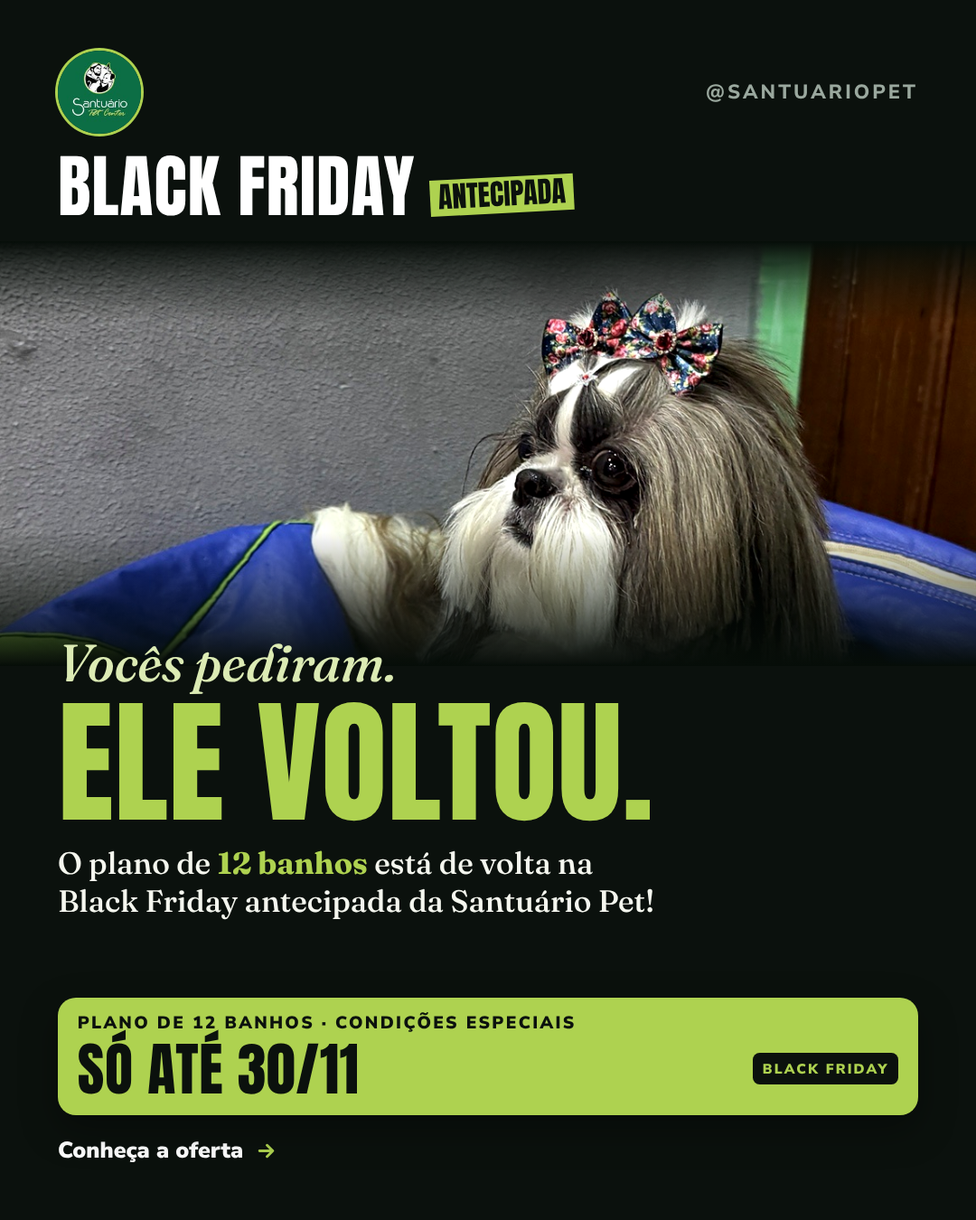
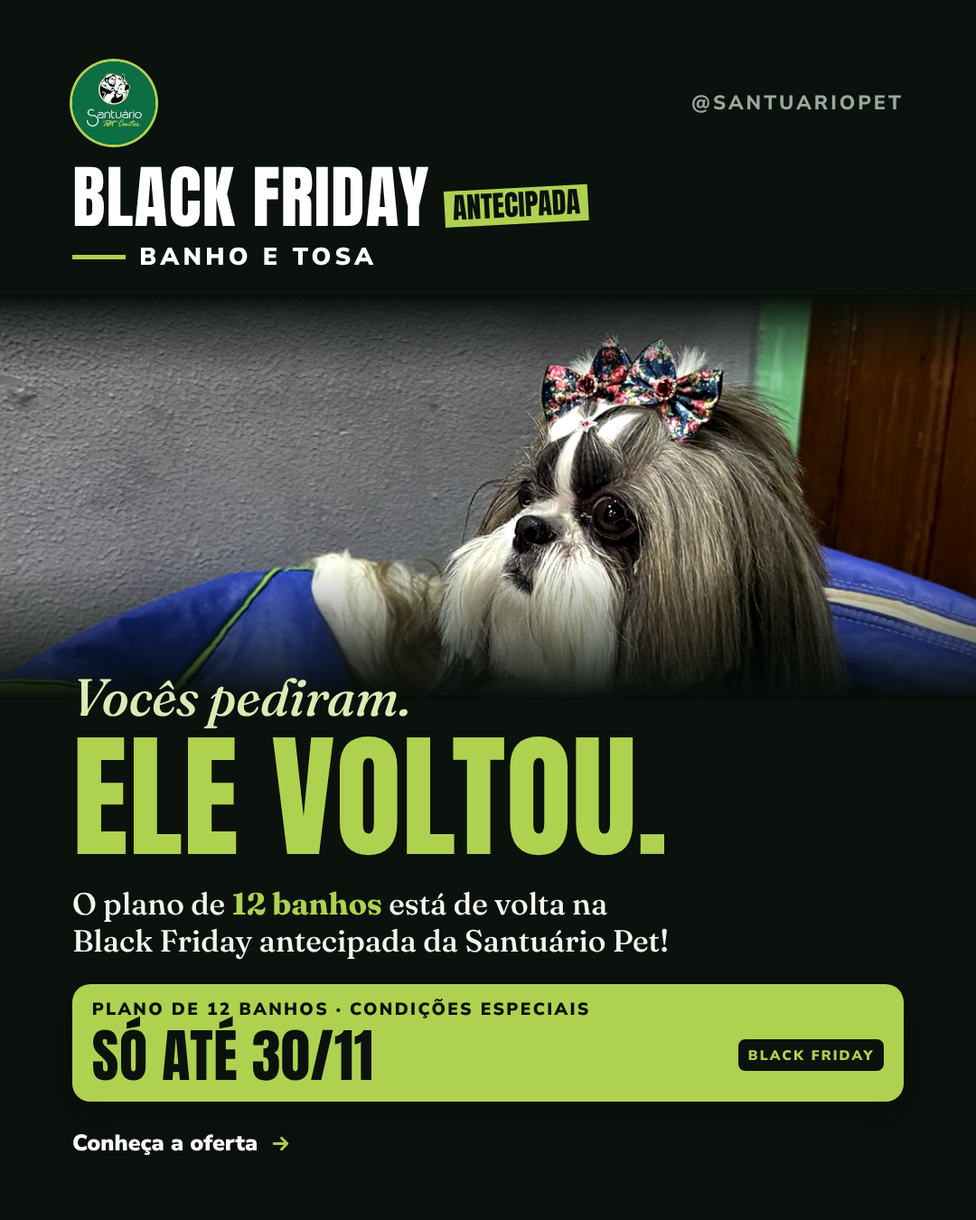
Santuário Pet: rótulo do serviço, espaçamentos e nova foto do hotel
Claude-Session: https://claude.ai/code/session_01Gs9A9MNex2dmEc6dmLnRAu

diff --git a/santuario-pet/gerar_black_antecipada.py b/santuario-pet/gerar_black_antecipada.py
@@ -80,6 +80,8 @@ body{width:1080px;overflow:hidden;font-family:'Nunito Sans',sans-serif;-webkit-f
 .oferta .b{font-family:'Anton';text-transform:uppercase;line-height:1;letter-spacing:.01em}
 .oferta .t{background:var(--k);color:var(--lime);font-weight:900;font-size:.24em;letter-spacing:.14em;text-transform:uppercase;
   padding:.45em .7em;border-radius:.5em;white-space:nowrap}
+.serv{display:flex;align-items:center;gap:.55em;font-weight:900;text-transform:uppercase;letter-spacing:.16em;color:#fff;line-height:1}
+.serv i{display:block;width:2.2em;height:.18em;background:var(--lime)}
 .rodl{position:relative;z-index:6;font-weight:800;letter-spacing:3px;text-transform:uppercase;color:var(--lime)}
 .strike{display:inline-block;color:rgba(245,247,239,.42);text-decoration:line-through;text-decoration-color:var(--lime);text-decoration-thickness:.055em}
 """
@@ -96,9 +98,18 @@ def topo(ls):
             f'<span class="handle">@santuariopet</span></div>')
 
 
+SERV = {"creche": "Creche Pet", "banho": "Banho e Tosa", "hotel": "Hotel Pet"}
+
+
+def servico(size, mt):
+    nome = SERV[CUR["nome"].split("-")[1]]
+    return (f'<div class="serv" style="font-size:{size}px;margin-top:{mt}px"><i></i>{nome}</div>')
+
+
 def bf(size, mt=0):
     return (f'<div class="bf" style="margin-top:{mt}px"><div class="l" style="font-size:{size}px">Black Friday</div>'
-            f'<div class="ant" style="font-size:{round(size * .42)}px">Antecipada</div></div>')
+            f'<div class="ant" style="font-size:{round(size * .42)}px">Antecipada</div></div>'
+            + servico(max(24, round(size * .36)), round(size * .26)))
 
 
 def tape(*a, **k):
@@ -119,7 +130,7 @@ OFERTAS = {
     "06-banho-nao-e-1-nao-sao-6": ("Plano de 12 banhos · condições especiais", "Só até 30/11", "Black Friday"),
     "07-hotel-fim-de-ano-destino": ("Hospedagem com valor de baixa temporada", "Reserve até 30/11", "Vagas limitadas"),
     "08-hotel-baixa-temporada": ("Hospedagem de fim de ano", "Só até 30/11", "Vagas limitadas"),
-    "09-hotel-viagem-pode-esperar": ("Valor de baixa temporada", "Reserve até 30/11", "Vagas limitadas"),
+    "09-hotel-viagem-pode-esperar": ("Valor de baixa temporada", "Até 30/11", "Vagas limitadas"),
 }
 
 
@@ -130,13 +141,13 @@ def oferta(size, mt):
 
 
 def cta(txt, size, mt=0):
-    big = 92 if size >= 30 else 64
+    big = 80 if size >= 30 else 64
     return (oferta(big, max(mt, 26)) +
-            f'<div class="cta" style="font-size:{size}px;margin-top:22px">{txt} {SETA}</div>')
+            f'<div class="cta" style="font-size:{size}px;margin-top:29px">{txt} {SETA}</div>')
 
 
-SP = "150px 72px 250px"
-FP = "56px 64px 60px"
+SP = "170px 92px 270px"
+FP = "68px 80px 68px"
 
 
 def faixa(*a, **k):
@@ -150,56 +161,56 @@ def _faixa_old(txt, bottom, left=64, width=520):
 # ======================================================== CRECHE
 def creche1(f):
     if f == "story":
-        return page(1920, f"""{topo(104)}{bf(120, 46)}
-  <div class="row" style="margin-top:34px;gap:30px;align-items:center">
-    <div class="imp lime" style="font-size:430px;line-height:.8;letter-spacing:-6px">60</div>
-    <div><div class="imp" style="font-size:118px">Diárias</div>
-      <div class="ser it" style="font-size:44px;line-height:1.12;margin-top:16px;color:var(--gl)">Um desconto que vai te surpreender.</div></div>
+        return page(1920, f"""{topo(90)}{bf(90, 40)}
+  <div class="row" style="margin-top:44px;gap:30px;align-items:center">
+    <div class="imp lime" style="font-size:330px;line-height:.8;letter-spacing:-5px">60</div>
+    <div><div class="imp" style="font-size:100px">Diárias</div>
+      <div class="ser it" style="font-size:44px;line-height:1.12;margin-top:21px;color:var(--gl)">Um desconto que vai te surpreender.</div></div>
   </div>
-  {ph('creche-playground', '55% 30%', 'flex:1;margin:40px -72px 0;min-height:300px', '<div class="fade-t" style="height:160px"></div><div class="fade-b" style="height:120px"></div>')}
+  {ph('creche-playground', '55% 30%', 'flex:1;margin:40px -92px 0;min-height:470px', '<div class="fade-t" style="height:80px"></div><div class="fade-b" style="height:70px"></div>')}
   {tape('Vagas limitadas • Somente até 30/11', 40, -60)}
-  <div class="sup" style="font-size:29px;margin-top:40px">A Black Friday antecipada chegou à creche Santuário, com uma condição especial <b>sem diferenciação de preço por porte</b>.</div>
+  <div class="sup" style="font-size:29px;margin-top:52px">A Black Friday antecipada chegou à creche Santuário, com uma condição especial <b>sem diferenciação de preço por porte</b>.</div>
   {cta('Consulte a oferta pelo WhatsApp', 30, 22)}""", SP)
     return page(1350, f"""<div class="row" style="flex:1;gap:44px">
     <div style="width:520px;display:flex;flex-direction:column">
       {topo(92)}{bf(86, 34)}
-      <div class="imp lime" style="font-size:340px;line-height:.8;letter-spacing:-5px;margin-top:30px">60</div>
+      <div class="imp lime" style="font-size:340px;line-height:.8;letter-spacing:-5px;margin-top:39px">60</div>
       <div class="imp" style="font-size:104px;margin-top:6px">Diárias</div>
-      <div class="ser it" style="font-size:40px;line-height:1.12;margin-top:16px;color:var(--gl)">Um desconto que vai te surpreender.</div>
-      <div class="sup" style="font-size:24px;margin-top:22px">A Black Friday antecipada chegou à creche Santuário, com uma condição especial <b>sem diferenciação de preço por porte</b>.</div>
+      <div class="ser it" style="font-size:40px;line-height:1.12;margin-top:21px;color:var(--gl)">Um desconto que vai te surpreender.</div>
+      <div class="sup" style="font-size:24px;margin-top:29px">A Black Friday antecipada chegou à creche Santuário, com uma condição especial <b>sem diferenciação de preço por porte</b>.</div>
       <div style="flex:1"></div>{cta('Consulte a oferta pelo WhatsApp', 25)}
     </div>
-    {ph('creche-playground', '50% 40%', 'flex:1;margin:-56px -64px -60px 0', '<div class="fade-l" style="width:120px"></div>')}
+    {ph('creche-playground', '50% 40%', 'flex:1;margin:-68px -80px -68px 0', '<div class="fade-l" style="width:120px"></div>')}
   </div>{faixa('Vagas limitadas • Somente até 30/11', 150)}""", FP)
 
 
 def creche2(f):
     if f == "story":
-        return page(1920, f"""{topo(104)}
-  <div class="imp" style="font-size:112px;margin-top:50px;line-height:.95">A <span class="lime">Black Friday</span><br>da creche não<br>veio para</div>
+        return page(1920, f"""{topo(90)}{servico(32, 46)}
+  <div class="imp" style="font-size:112px;margin-top:65px;line-height:.95">A <span class="lime">Black Friday</span><br>da creche não<br>veio para</div>
   <div class="ser it lime" style="font-size:168px;line-height:.95;font-weight:700;margin-top:4px;letter-spacing:-3px">brincar.</div>
-  <div class="ser" style="font-size:42px;font-weight:700;margin-top:26px">60 diárias com uma condição especial.</div>
-  {ph('creche-brincando', '50% 52%', 'flex:1;margin:34px -72px 0;min-height:300px', '<div class="fade-t" style="height:140px"></div><div class="fade-b" style="height:120px"></div>')}
+  <div class="ser" style="font-size:42px;font-weight:700;margin-top:34px">60 diárias com uma condição especial.</div>
+  {ph('creche-brincando', '50% 52%', 'flex:1;margin:34px -92px 0;min-height:470px', '<div class="fade-t" style="height:80px"></div><div class="fade-b" style="height:70px"></div>')}
   {tape('Oferta até 30/11 • Vagas limitadas', 40, -50)}
-  <div class="sup" style="font-size:29px;margin-top:40px">Mais oportunidades de recreação, atividades e diversão na rotina do teu pet.</div>
+  <div class="sup" style="font-size:29px;margin-top:52px">Mais oportunidades de recreação, atividades e diversão na rotina do teu pet.</div>
   {cta('Descubra a condição especial', 30, 22)}""", SP)
     return page(1350, f"""{ph('creche-brincando', '46% 50%', 'position:absolute;top:0;bottom:0;right:0;left:540px', '<div class="fade-l" style="width:120px"></div>')}
   <div style="position:relative;z-index:3;width:450px;display:flex;flex-direction:column;height:100%">
-    <div style="--ls:92px"><img class="logo" src="{LOGO}" alt="Santuário Pet Center"></div>
-    <div class="imp" style="font-size:88px;margin-top:44px;line-height:.98">A <span class="lime">Black<br>Friday</span> da<br>creche não<br>veio para</div>
+    <div style="--ls:92px"><img class="logo" src="{LOGO}" alt="Santuário Pet Center"></div>{servico(24, 34)}
+    <div class="imp" style="font-size:88px;margin-top:57px;line-height:.98">A <span class="lime">Black<br>Friday</span> da<br>creche não<br>veio para</div>
     <div class="ser it lime" style="font-size:124px;line-height:.95;font-weight:700;margin-top:4px;letter-spacing:-2px">brincar.</div>
-    <div class="ser" style="font-size:36px;font-weight:700;margin-top:28px;width:420px">60 diárias com uma condição especial.</div>
-    <div class="sup" style="font-size:24px;margin-top:14px;width:420px">Mais oportunidades de recreação, atividades e diversão na rotina do teu pet.</div>
+    <div class="ser" style="font-size:36px;font-weight:700;margin-top:36px;width:420px">60 diárias com uma condição especial.</div>
+    <div class="sup" style="font-size:24px;margin-top:18px;width:420px">Mais oportunidades de recreação, atividades e diversão na rotina do teu pet.</div>
     <div style="flex:1"></div>{cta('Descubra a condição especial', 25)}
   </div>{faixa('Oferta até 30/11 • Vagas limitadas', 150)}""", FP)
 
 
 def creche3(f):
     if f == "story":
-        return page(1920, f"""{topo(104)}{bf(110, 46)}
-  <div class="ser it" style="font-size:68px;margin-top:36px;color:var(--gl)">Porte diferente.</div>
-  <div class="imp" style="font-size:140px;margin-top:8px">Mesmo preço<br><span class="lime">especial.</span></div>
-  <div class="row" style="flex:1;gap:36px;margin-top:44px;min-height:300px">
+        return page(1920, f"""{topo(90)}{bf(86, 40)}
+  <div class="ser it" style="font-size:68px;margin-top:47px;color:var(--gl)">Porte diferente.</div>
+  <div class="imp" style="font-size:140px;margin-top:10px">Mesmo preço<br><span class="lime">especial.</span></div>
+  <div class="row" style="flex:1;gap:36px;margin-top:57px;min-height:470px">
     {ph('creche-grupo', '50% 55%', 'width:540px;border-radius:270px 270px 24px 24px')}
     <div style="flex:1;display:flex;flex-direction:column;justify-content:flex-end">
       <div class="sup" style="font-size:29px">Aproveita a Black Friday antecipada e conhece a condição do plano de <b>60 diárias</b> da creche Santuário.</div>
@@ -208,15 +219,15 @@ def creche3(f):
   {cta('Fala com a equipe', 30, 36)}
   {tape('Contratações até 30/11 • Vagas limitadas', 38, 46)}""", SP)
     return page(1350, f"""{topo(92)}
-  <div class="row" style="flex:1;gap:40px;margin-top:34px">
+  <div class="row" style="flex:1;gap:40px;margin-top:44px">
     <div style="flex:1;display:flex;flex-direction:column">
       {bf(78)}
-      <div class="ser it" style="font-size:62px;margin-top:36px;color:var(--gl)">Porte diferente.</div>
-      <div class="imp" style="font-size:132px;margin-top:8px">Mesmo<br>preço<br><span class="lime">especial.</span></div>
+      <div class="ser it" style="font-size:62px;margin-top:47px;color:var(--gl)">Porte diferente.</div>
+      <div class="imp" style="font-size:132px;margin-top:10px">Mesmo<br>preço<br><span class="lime">especial.</span></div>
     </div>
     {ph('creche-grupo', '50% 55%', 'width:400px;border-radius:200px 200px 22px 22px')}
   </div>
-  <div class="sup" style="font-size:26px;margin-top:36px">Aproveita a Black Friday antecipada e conhece a condição do plano de <b>60 diárias</b> da creche Santuário.</div>
+  <div class="sup" style="font-size:26px;margin-top:47px">Aproveita a Black Friday antecipada e conhece a condição do plano de <b>60 diárias</b> da creche Santuário.</div>
   {tape('Contratações até 30/11 • Vagas limitadas', 28, 30, 26)}
   {cta('Fala com a equipe', 25)}""", FP)
 
@@ -224,19 +235,19 @@ def creche3(f):
 # ======================================================== BANHO
 def banho1(f):
     if f == "story":
-        return page(1920, f"""{topo(104)}{bf(110, 46)}
-  {ph('banho-shihtzu', '50% 36%', 'height:620px;margin:40px -72px 0', '<div class="fade-t" style="height:120px"></div><div class="fade-b" style="height:200px"></div>')}
+        return page(1920, f"""{topo(90)}{bf(86, 40)}
+  {ph('banho-shihtzu', '50% 36%', 'height:620px;margin:40px -92px 0', '<div class="fade-t" style="height:120px"></div><div class="fade-b" style="height:200px"></div>')}
   <div class="ser it" style="font-size:84px;margin-top:-40px;position:relative;z-index:3;color:var(--gl)">Vocês pediram.</div>
   <div class="imp lime" style="font-size:200px;margin-top:6px">Ele voltou.</div>
-  <div class="ser" style="font-size:42px;font-weight:500;line-height:1.2;margin-top:34px">O plano de <b style="font-weight:700;color:var(--lime)">12 banhos</b> está de volta na Black Friday antecipada da Santuário Pet!</div>
+  <div class="ser" style="font-size:42px;font-weight:500;line-height:1.2;margin-top:44px">O plano de <b style="font-weight:700;color:var(--lime)">12 banhos</b> está de volta na Black Friday antecipada da Santuário Pet!</div>
   <div style="flex:1"></div>
   {tape('Condições especiais • Somente até 30/11', 38, 0, 40)}
   {cta('Conheça a oferta', 30)}""", SP)
     return page(1350, f"""{topo(92)}{bf(76, 26)}
-  {ph('banho-shihtzu', '50% 36%', 'height:470px;margin:28px -64px 0', '<div class="fade-t" style="height:90px"></div><div class="fade-b" style="height:150px"></div>')}
+  {ph('banho-shihtzu', '50% 36%', 'height:470px;margin:28px -80px 0', '<div class="fade-t" style="height:90px"></div><div class="fade-b" style="height:150px"></div>')}
   <div class="ser it" style="font-size:58px;color:var(--gl);margin-top:-40px;position:relative;z-index:3">Vocês pediram.</div>
   <div class="imp lime" style="font-size:150px;margin-top:6px">Ele voltou.</div>
-  <div class="ser" style="font-size:34px;font-weight:500;line-height:1.22;margin-top:22px">O plano de <b style="font-weight:700;color:var(--lime)">12 banhos</b> está de volta na Black Friday antecipada da Santuário Pet!</div>
+  <div class="ser" style="font-size:34px;font-weight:500;line-height:1.22;margin-top:29px">O plano de <b style="font-weight:700;color:var(--lime)">12 banhos</b> está de volta na Black Friday antecipada da Santuário Pet!</div>
   <div style="flex:1"></div>
   {tape('Condições especiais • Somente até 30/11', 28, 0, 30)}
   {cta('Conheça a oferta', 25)}""", FP)
@@ -244,53 +255,53 @@ def banho1(f):
 
 def banho2(f):
     if f == "story":
-        return page(1920, f"""{topo(104)}{bf(110, 46)}
-  <div class="row" style="gap:28px;margin-top:40px;height:620px">
+        return page(1920, f"""{topo(90)}{bf(86, 40)}
+  <div class="row" style="gap:28px;margin-top:52px;height:620px">
     <div class="imp lime" style="font-size:640px;line-height:.78;letter-spacing:-14px">12</div>
     {ph('banho-toalha', '50% 30%', 'flex:1;border-radius:24px')}
   </div>
-  <div class="imp" style="font-size:190px;margin-top:20px">Banhos</div>
-  <div class="ser it" style="font-size:58px;color:var(--gl);margin-top:14px">Uma condição imperdível.</div>
-  <div class="sup" style="font-size:29px;margin-top:20px">Planeja os banhos do teu pet com uma condição especial de Black Friday.</div>
+  <div class="imp" style="font-size:190px;margin-top:26px">Banhos</div>
+  <div class="ser it" style="font-size:58px;color:var(--gl);margin-top:18px">Uma condição imperdível.</div>
+  <div class="sup" style="font-size:29px;margin-top:26px">Planeja os banhos do teu pet com uma condição especial de Black Friday.</div>
   <div style="flex:1"></div>
   {tape('Black Friday antecipada • Até 30/11', 38, 0, 40)}
   {cta('Consulte os valores', 30)}""", SP)
     return page(1350, f"""<div class="row" style="flex:1;gap:40px">
     <div style="width:560px;display:flex;flex-direction:column">
       {topo(92)}{bf(80, 30)}
-      <div class="imp lime" style="font-size:470px;line-height:.78;letter-spacing:-10px;margin-top:40px">12</div>
-      <div class="imp" style="font-size:150px;margin-top:10px">Banhos</div>
-      <div class="ser it" style="font-size:46px;color:var(--gl);margin-top:12px">Uma condição imperdível.</div>
-      <div class="sup" style="font-size:24px;margin-top:14px">Planeja os banhos do teu pet com uma condição especial de Black Friday.</div>
+      <div class="imp lime" style="font-size:470px;line-height:.78;letter-spacing:-10px;margin-top:52px">12</div>
+      <div class="imp" style="font-size:150px;margin-top:13px">Banhos</div>
+      <div class="ser it" style="font-size:46px;color:var(--gl);margin-top:16px">Uma condição imperdível.</div>
+      <div class="sup" style="font-size:24px;margin-top:18px">Planeja os banhos do teu pet com uma condição especial de Black Friday.</div>
       <div style="flex:1"></div>{cta('Consulte os valores', 25)}
     </div>
-    {ph('banho-toalha', '50% 40%', 'flex:1;margin:-56px -64px -60px 0', '<div class="fade-l" style="width:100px"></div>')}
+    {ph('banho-toalha', '50% 40%', 'flex:1;margin:-68px -80px -68px 0', '<div class="fade-l" style="width:100px"></div>')}
   </div>{faixa('Black Friday antecipada • Até 30/11', 150)}""", FP)
 
 
 def banho3(f):
     if f == "story":
-        return page(1920, f"""{topo(104)}{bf(110, 46)}
-  <div class="imp" style="font-size:88px;margin-top:36px;line-height:1.08"><span class="strike">Não são 4.</span><br><span class="strike">Não são 8.</span></div>
-  <div class="row" style="align-items:flex-end;gap:26px;margin-top:22px">
-    <div class="imp" style="font-size:110px;padding-bottom:10px">São</div>
-    <div class="imp lime" style="font-size:300px;line-height:.78;letter-spacing:-10px">12</div>
+        return page(1920, f"""{topo(90)}{bf(86, 40)}
+  <div class="imp" style="font-size:72px;margin-top:40px;line-height:1.08"><span class="strike">Não são 4.</span><br><span class="strike">Não são 8.</span></div>
+  <div class="row" style="align-items:flex-end;gap:26px;margin-top:29px">
+    <div class="imp" style="font-size:92px;padding-bottom:8px">São</div>
+    <div class="imp lime" style="font-size:250px;line-height:.78;letter-spacing:-8px">12</div>
   </div>
-  <div class="imp" style="font-size:110px;margin-top:12px">banhos!</div>
-  {ph('banho-golden', '50% 30%', 'flex:1;margin:26px -72px 0;min-height:200px', '<div class="fade-t" style="height:140px"></div><div class="fade-b" style="height:110px"></div>')}
+  <div class="imp" style="font-size:92px;margin-top:14px">banhos!</div>
+  {ph('banho-golden', '50% 30%', 'flex:1;margin:26px -92px 0;min-height:470px', '<div class="fade-t" style="height:80px"></div><div class="fade-b" style="height:70px"></div>')}
   {tape('Somente até 30/11', 40, -50)}
-  <div class="sup" style="font-size:29px;margin-top:40px">O plano tão pedido voltou com condições especiais na Black Friday Santuário.</div>
+  <div class="sup" style="font-size:29px;margin-top:52px">O plano tão pedido voltou com condições especiais na Black Friday Santuário.</div>
   {cta('Chama no WhatsApp', 30, 22)}""", SP)
     return page(1350, f"""{ph('banho-golden', '50% 45%', 'position:absolute;right:0;top:0;width:420px;height:1350px', '<div class="fade-l" style="width:180px"></div>')}
   <div style="position:relative;z-index:3;width:680px;display:flex;flex-direction:column;height:100%">
     {topo(92)}{bf(80, 30)}
-    <div class="imp" style="font-size:118px;margin-top:40px;line-height:1"><span class="strike">Não são 4.</span><br><span class="strike">Não são 8.</span></div>
-    <div class="row" style="align-items:flex-end;gap:20px;margin-top:16px">
+    <div class="imp" style="font-size:118px;margin-top:52px;line-height:1"><span class="strike">Não são 4.</span><br><span class="strike">Não são 8.</span></div>
+    <div class="row" style="align-items:flex-end;gap:20px;margin-top:21px">
       <div class="imp" style="font-size:112px;padding-bottom:10px">São</div>
       <div class="imp lime" style="font-size:330px;line-height:.78;letter-spacing:-8px">12</div>
     </div>
-    <div class="imp" style="font-size:112px;margin-top:10px">banhos!</div>
-    <div class="sup" style="font-size:24px;margin-top:18px;width:560px">O plano tão pedido voltou com condições especiais na Black Friday Santuário.</div>
+    <div class="imp" style="font-size:112px;margin-top:13px">banhos!</div>
+    <div class="sup" style="font-size:24px;margin-top:23px;width:560px">O plano tão pedido voltou com condições especiais na Black Friday Santuário.</div>
     <div style="flex:1"></div>{cta('Chama no WhatsApp', 25)}
   </div>{faixa('Somente até 30/11', 150)}""", FP)
 
@@ -298,71 +309,67 @@ def banho3(f):
 # ======================================================== HOTEL
 def hotel1(f):
     if f == "story":
-        return page(1920, f"""{topo(104)}{bf(110, 46)}
-  <div class="ser" style="font-size:80px;font-weight:700;line-height:1.04;margin-top:44px;letter-spacing:-1px">Teu fim de ano<br>já tem destino?</div>
-  <div class="ser it lime" style="font-size:58px;font-weight:500;margin-top:16px">O dele também pode ter.</div>
-  {ph('hotel-descanso', '50% 62%', 'flex:1;margin:44px -72px 0;min-height:300px', '<div class="fade-t" style="height:150px"></div><div class="fade-b" style="height:120px"></div>')}
+        return page(1920, f"""{topo(90)}{bf(86, 40)}
+  <div class="ser" style="font-size:80px;font-weight:700;line-height:1.04;margin-top:57px;letter-spacing:-1px">Teu fim de ano<br>já tem destino?</div>
+  <div class="ser it lime" style="font-size:58px;font-weight:500;margin-top:21px">O dele também pode ter.</div>
+  {ph('hotel-colo', '50% 40%', 'flex:1;margin:44px -92px 0;min-height:470px', '<div class="fade-t" style="height:80px"></div><div class="fade-b" style="height:70px"></div>')}
   {tape('Reserve até 30/11 • Vagas limitadas', 40, -50)}
-  <div class="sup" style="font-size:29px;margin-top:40px">Garante a hospedagem do teu pet para o fim de ano com valor de <b>baixa temporada</b>.</div>
+  <div class="sup" style="font-size:29px;margin-top:52px">Garante a hospedagem do teu pet para o fim de ano com valor de <b>baixa temporada</b>.</div>
   {cta('Consulte a disponibilidade', 30, 22)}
-  <div class="end" style="font-size:21px;margin-top:12px">{HOTEL}</div>""", SP)
+  <div class="end" style="font-size:21px;margin-top:16px">{HOTEL}</div>""", SP)
     return page(1350, f"""<div class="row" style="flex:1;gap:44px">
-    {ph('hotel-descanso', '55% 62%', 'width:430px;margin:-56px 0 -60px -64px')}
+    {ph('hotel-colo', '42% 40%', 'width:430px;margin:-68px 0 -68px -80px')}
     <div style="flex:1;display:flex;flex-direction:column">
       {topo(92)}{bf(70, 30)}
-      <div class="ser" style="font-size:70px;font-weight:700;line-height:1.04;margin-top:44px;letter-spacing:-1px">Teu fim de ano já tem destino?</div>
-      <div class="ser it lime" style="font-size:52px;font-weight:500;margin-top:16px;line-height:1.1">O dele também pode ter.</div>
-      <div class="sup" style="font-size:24px;margin-top:26px">Garante a hospedagem do teu pet para o fim de ano com valor de <b>baixa temporada</b>.</div>
+      <div class="ser" style="font-size:70px;font-weight:700;line-height:1.04;margin-top:57px;letter-spacing:-1px">Teu fim de ano já tem destino?</div>
+      <div class="ser it lime" style="font-size:52px;font-weight:500;margin-top:21px;line-height:1.1">O dele também pode ter.</div>
+      <div class="sup" style="font-size:24px;margin-top:34px">Garante a hospedagem do teu pet para o fim de ano com valor de <b>baixa temporada</b>.</div>
       <div style="flex:1"></div>{cta('Consulte a disponibilidade', 25)}
-      <div class="end" style="font-size:18px;margin-top:10px">{HOTEL}</div>
+      <div class="end" style="font-size:18px;margin-top:13px">{HOTEL}</div>
     </div>
   </div>{faixa('Reserve até 30/11 • Vagas limitadas', 200, 474, 540)}""", FP)
 
 
 def hotel2(f):
     if f == "story":
-        return page(1920, f"""{ph('hotel-samoieda', '50% 45%', 'position:absolute;inset:0', '<div class="fade-t" style="height:820px;background:linear-gradient(var(--k) 45%,rgba(11,17,13,0))"></div><div class="fade-b" style="height:1120px;background:linear-gradient(rgba(11,17,13,0),rgba(11,17,13,.88) 34%,var(--k) 52%)"></div>')}
-  <div style="position:relative;z-index:3">{topo(104)}{bf(110, 46)}
-    <div class="imp" style="font-size:120px;margin-top:50px">Fim de ano com</div></div>
-  <div style="flex:1"></div>
-  <div style="position:relative;z-index:3">
-    <div class="ser it" style="font-size:60px;color:var(--gl)">valor de</div>
-    <div class="imp lime" style="font-size:176px;margin-top:6px">Baixa<br>temporada.</div>
-    <div class="sup" style="font-size:28px;margin-top:28px">A Black Friday antecipada da Santuário chegou ao hotel pet. Garante a hospedagem de fim de ano com uma condição especial.</div>
-    {tape('Somente até 30/11 • Vagas limitadas', 38, 30, 34)}
-    {cta('Antecipe a reserva', 30)}
-    <div class="end" style="font-size:21px;margin-top:12px">{HOTEL}</div>
-  </div>""", SP)
+        return page(1920, f"""{topo(90)}{bf(86, 40)}
+  <div class="imp" style="font-size:112px;margin-top:52px">Fim de ano com</div>
+  {ph('hotel-samoieda', '50% 42%', 'flex:1;margin:34px -92px 0;min-height:470px', '<div class="fade-t" style="height:80px"></div><div class="fade-b" style="height:120px"></div>')}
+  <div class="ser it" style="font-size:52px;color:var(--gl);margin-top:-30px;position:relative;z-index:3">valor de</div>
+  <div class="imp lime" style="font-size:128px;margin-top:6px">Baixa temporada.</div>
+  <div class="sup" style="font-size:28px;margin-top:22px">A Black Friday antecipada da Santuário chegou ao hotel pet. Garante a hospedagem de fim de ano com uma condição especial.</div>
+  {cta('Antecipe a reserva', 30)}
+  <div class="end" style="font-size:21px;margin-top:16px">{HOTEL}</div>""", SP)
     return page(1350, f"""{ph('hotel-samoieda', '50% 40%', 'position:absolute;top:0;bottom:0;right:0;left:470px', '<div class="fade-l" style="width:420px;background:linear-gradient(90deg,var(--k) 20%,rgba(10,11,10,0))"></div>')}
   <div style="position:relative;z-index:3;width:600px;display:flex;flex-direction:column;height:100%">
     {topo(92)}{bf(76, 30)}
-    <div class="imp" style="font-size:96px;margin-top:44px">Fim de ano com</div>
-    <div class="ser it" style="font-size:48px;color:var(--gl);margin-top:20px">valor de</div>
+    <div class="imp" style="font-size:96px;margin-top:57px">Fim de ano com</div>
+    <div class="ser it" style="font-size:48px;color:var(--gl);margin-top:26px">valor de</div>
     <div class="imp lime" style="font-size:118px;margin-top:4px">Baixa<br>temporada.</div>
-    <div class="sup" style="font-size:24px;margin-top:22px;width:500px">A Black Friday antecipada da Santuário chegou ao hotel pet. Garante a hospedagem de fim de ano com uma condição especial.</div>
+    <div class="sup" style="font-size:24px;margin-top:29px;width:500px">A Black Friday antecipada da Santuário chegou ao hotel pet. Garante a hospedagem de fim de ano com uma condição especial.</div>
     <div style="flex:1"></div>{cta('Antecipe a reserva', 25)}
-    <div class="end" style="font-size:18px;margin-top:10px">{HOTEL}</div>
+    <div class="end" style="font-size:18px;margin-top:13px">{HOTEL}</div>
   </div>{faixa('Somente até 30/11 • Vagas limitadas', 200)}""", FP)
 
 
 def hotel3(f):
     if f == "story":
-        return page(1920, f"""{topo(104)}{bf(110, 46)}
-  <div class="imp" style="font-size:116px;margin-top:40px">Tua viagem<br>pode esperar.</div>
-  {ph('hotel-pastor', '50% 32%', 'flex:1;margin-top:40px;border-radius:26px;min-height:300px')}
+        return page(1920, f"""{topo(90)}{bf(86, 40)}
+  <div class="imp" style="font-size:116px;margin-top:52px">Tua viagem<br>pode esperar.</div>
+  {ph('hotel-pastor', '50% 32%', 'flex:1;margin-top:52px;border-radius:26px;min-height:470px')}
   {tape('Vagas limitadas • Hotel Pet Santuário', 38, -40)}
-  <div class="ser it lime" style="font-size:64px;font-weight:700;line-height:1.04;margin-top:34px">A reserva dele,<br>melhor não.</div>
-  <div class="sup" style="font-size:28px;margin-top:18px">Planeja a hospedagem de fim de ano e aproveita o valor de <b>baixa temporada</b> para reservas realizadas até 30/11.</div>
+  <div class="ser it lime" style="font-size:64px;font-weight:700;line-height:1.04;margin-top:44px">A reserva dele,<br>melhor não.</div>
+  <div class="sup" style="font-size:28px;margin-top:23px">Planeja a hospedagem de fim de ano e aproveita o valor de <b>baixa temporada</b> para reservas realizadas até 30/11.</div>
   {cta('Garanta a vaga pelo WhatsApp', 30, 20)}
-  <div class="end" style="font-size:21px;margin-top:12px">{HOTEL}</div>""", SP)
+  <div class="end" style="font-size:21px;margin-top:16px">{HOTEL}</div>""", SP)
     return page(1350, f"""<div class="row" style="flex:1;gap:44px">
     <div style="flex:1;display:flex;flex-direction:column">
       {topo(92)}{bf(70, 30)}
-      <div class="imp" style="font-size:112px;margin-top:40px">Tua viagem pode esperar.</div>
-      <div class="ser it lime" style="font-size:64px;font-weight:700;line-height:1.02;margin-top:24px">A reserva dele, melhor não.</div>
-      <div class="sup" style="font-size:24px;margin-top:22px">Planeja a hospedagem de fim de ano e aproveita o valor de <b>baixa temporada</b> para reservas realizadas até 30/11.</div>
+      <div class="imp" style="font-size:94px;margin-top:46px">Tua viagem pode esperar.</div>
+      <div class="ser it lime" style="font-size:64px;font-weight:700;line-height:1.02;margin-top:31px">A reserva dele, melhor não.</div>
+      <div class="sup" style="font-size:24px;margin-top:29px">Planeja a hospedagem de fim de ano e aproveita o valor de <b>baixa temporada</b> para reservas realizadas até 30/11.</div>
       <div style="flex:1"></div>{cta('Garanta a vaga pelo WhatsApp', 25)}
-      <div class="end" style="font-size:18px;margin-top:10px">{HOTEL}</div>
+      <div class="end" style="font-size:18px;margin-top:13px">{HOTEL}</div>
     </div>
     {ph('hotel-pastor', '50% 35%', 'width:400px;border-radius:24px')}
   </div>""", FP)
